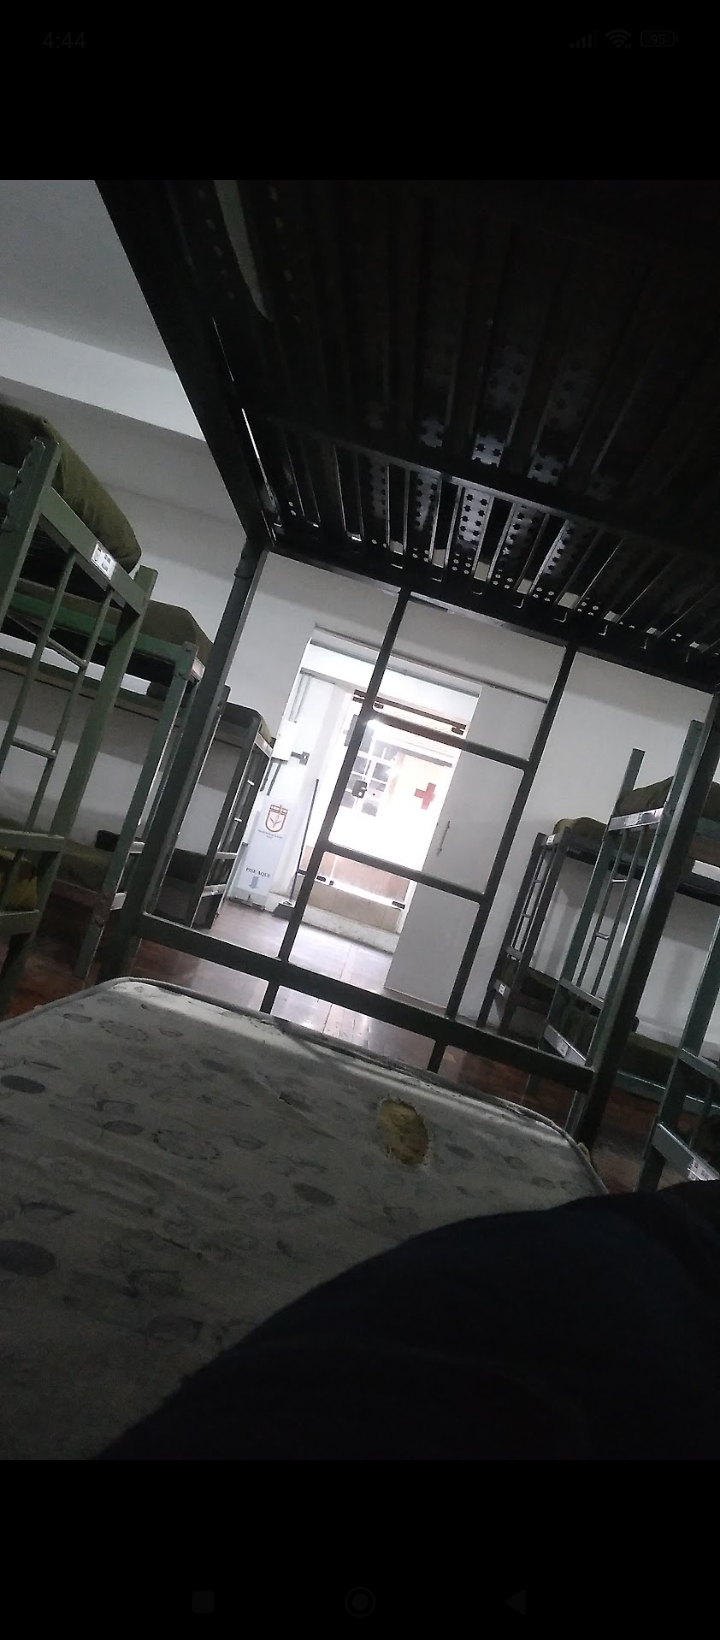
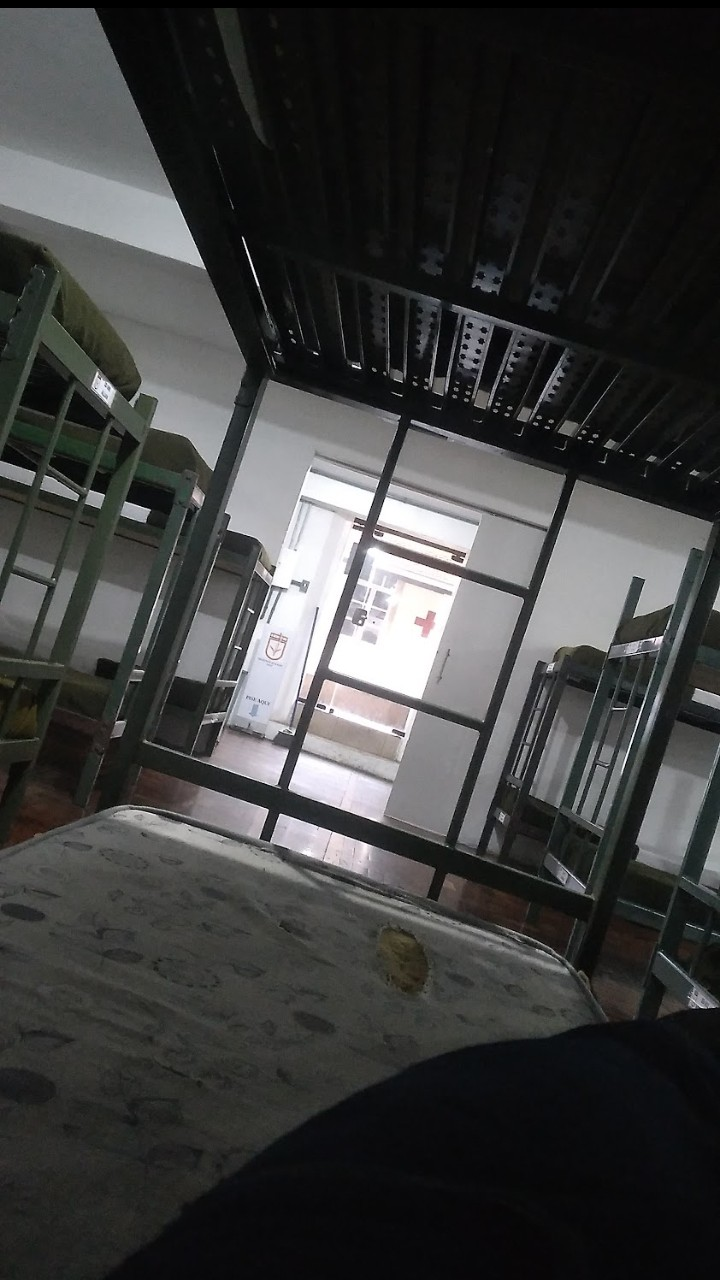
update

diff --git a/script/ep/5.html b/script/ep/5.html
@@ -1,0 +1,201 @@
+<!DOCTYPE html>
+<html lang="pt-BR">
+
+<head>
+    <meta http-equiv="Content-Type" content="text/html; charset=UTF-8" />
+    <title>A Lenda do Sd 609 Carvalho</title>
+    <meta name="viewport" content="width=device-width, initial-scale=1" />
+    <meta http-equiv="X-UA-Compatible" content="ie=edge">
+    <meta http-equiv="X-UA-Compatible" content="IE=7,8,edge" />
+    <meta http-equiv="Content-Type" content="text/html;charset=windows-1251">
+    <meta name="author" content="DarkWarrior666" />
+    <meta name="description" content="Um blog pessoal com uma série de gravações de voz feitas por um soldado expulso das Forças Armadas Brasileiras.">
+    
+    <link href="https://fonts.googleapis.com/css2?family=Changa+One:ital@0;1&display=swap" rel="stylesheet">
+    <link rel="icon" href="../assets/img/icon.jpg" />
+    <link rel="stylesheet" href="../css/alternate.css">
+    
+    <style type="text/css" media="all">
+        .main_menu {
+            top: 0;
+            bottom: 0;
+            left: 0;
+            right: 0;
+            position: fixed;
+            z-index: 1;
+            overflow-y: auto;
+            display: none;
+            background: #000000D6;
+            opacity: 0;
+            transform: translateX(-100%);
+            transition: opacity 0.5s ease, transform 0.5s ease;
+        }
+        
+        .main_menu.visible {
+            display: block;
+            opacity: 1;
+            transform: translateX(0);
+        }
+        
+        .main_menu button {
+            background: none;
+            padding-left: 20px;
+            color: #fff;
+            border: none;
+            padding-top: 30px;
+            font-size: 16px;
+            font-weight: 800;
+        }
+        
+        .main_menu button.x_menu {
+            color: #FF0000F2;
+            text-align: right;
+            font-size: 25px;
+            float: right;
+            padding: 30px 25px 0 0;
+        }
+        
+/* a {
+    color: #D9D9D9;
+    margin: 0px 20px 0px 0px;
+    padding-bottom: 10px;
+    font-size: 15px;
+    word-break: break-all;
+    line-height: 20px;
+    text-decoration: none;
+    position: relative;
+}
+ul{
+    color:#D9D9D9;
+    font-size: 14px;
+}
+
+a:hover{
+    color:#FF0000;
+}
+
+p a{
+    color:#FFF;
+    margin:0;
+    padding:0;
+    font-size: 14px;
+    font-weight: 800;
+    line-height: 20px;
+    text-decoration: underline;
+    list-style: underline;
+    text-decoration-color:#FF0000;
+}
+p a:hover{
+    color:#FF0000;
+} */
+
+section.pre {
+    background: #fff;
+    background-image: url("../../assets/img/locker609.jpg");
+    background-attachment: fixed;
+    background-repeat: no-repeat;
+    background-size: cover;
+    background-position: center;
+    padding-top: 50%;
+    margin: 10px 20px 10px 20px;
+}
+main {
+    padding-top: 25%;
+    background-image: url('../../assets/img/beds.jpg') !important;
+    background-repeat: no-repeat;
+    background-attachment: fixed;
+    background-size: cover;
+    background-position: center;
+}
+    </style>
+</head>
+
+<body>
+    <header>
+        <h1 onclick="location.href='../home.html'">LO<strike>V</strike>SER STORY</h1>
+        <button class="menu" onclick="menu()">☰</button>
+    </header>
+    <main>
+        
+<!-- Esse é o menu ========-->
+        <div class="main_menu" id="main_menu">
+            <button class="x_menu" onclick="menu()">X</button>
+            <button onclick="location.href='../../index.html'">Fitas</button>
+<br>
+<button onclick="location.href='https://www.big-loser.site/Caso/004'">Mídia de Arquivos</button>
+        </div>
+<!-- Fim do Menu ============-->
+        <section class="fancy">
+<h2>História verdadeira de um recruta do Exército Brasileiro</h2>
+<p>Esses são podcasts, histórias, relatos e experiências pessoais vividas por um soldado voluntário dentro das Forças Armadas do Brasil.</p>
+<p>Novos episódios atualizados frequentemente.</p>
+        </section>
+        
+        <section class="pre">
+            <div>
+<h2 style="transform:scaleY(1.8);">INTERNATO</h2>
+<button class="category_btn" onclick="location.href='../category.html'">INGRESSO E INCORPORAÇÃO</button> 
+<p style="font-size: 12px; padding-top: 0;margin-top: 0;">Qui, 24/Abr 2025</p>
+<p>O internato dos soldados aconteceu dia 1º de Abril de 2024 e iniciou a <i>SEMANA ZERO</i>.</p>
+<div class="podcast">
+    <div class="audio-player">
+        <audio id="audio" src="https://www.big-loser.site/A/Audio/FITA-7,-LADO-B.opus"></audio>
+        <button id="toggleBtn">▶</button>
+        <p>Ep 5: Internato</p>
+    </div>
+    <div class="progress-container">
+        <div class="progress-filled" id="progressFilled"></div>
+        <input type="range" id="progressBar" value="0" step="1" min="0" max="100">
+    </div>
+</div>
+<p>O internato começou dia 1º de Março e acabou em uma sexta-feira, 12, Abril de 2024.</p>
+
+<p style="font-weight: 800;">SOURCE</p>
+<ul>
+
+<li><br>
+<a href="https://web.archive.org/web/20250301024655/https://www.big-loser.site/M/Fev/internato.txt">https://web.archive.org/web/20250301024655/https://www.big-loser.site/M/Fev/internato.txt</a></li>
+<li><br>
+<a href="https://web.archive.org/web/20240715034331/https://3asyice.github.io/military/">https://web.archive.org/web/20240715034331/https://3asyice.github.io/military/</a></li>
+<li><br><a href="https://web.archive.org/web/20240809042446/https://3asyice.github.io/military/">https://web.archive.org/web/20240809042446/https://3asyice.github.io/military/</a></li>
+<li><br><a href="https://www.cbm.sc.gov.br/index.php/noticias/blog-noticias-institucionais/pelo-estado-semana-zero-adapta-alunos-soldados-a-rotina-militar#:~:text=A%20Semana%20Zero%20%C3%A9%20o%20per%C3%ADodo%20em,pelas%20quais%20os%20alunos%20passaram%20nesta%20semana.">https://www.cbm.sc.gov.br/index.php/noticias/blog-noticias-institucionais/pelo-estado-semana-zero-adapta-alunos-soldados-a-rotina-militar#:~:text=A%20Semana%20Zero%20%C3%A9%20o%20per%C3%ADodo%20em,pelas%20quais%20os%20alunos%20passaram%20nesta%20semana.</a></li>
+<li><br><a href="https://web.archive.org/web/20250425084106/https://tgjuazeirodonorte.blogspot.com/2011/06/movimentos-basicos-de-ou.html?m=1">https://web.archive.org/web/20250425084106/https://tgjuazeirodonorte.blogspot.com/2011/06/movimentos-basicos-de-ou.html?m=1</a></li>
+
+</ul>
+<p style="font-weight: 800;">ATRIBUIÇÕES</p>
+<p>Músicas de fundo: a primeira música é cantada pelo cantor <a href="https://youtu.be/6jRh2PRa1tU">Harry Nilson</a> - Gotta Get Up. A segunda música tocada é da cantora <a href="https://youtu.be/SQ9FvpF1vRo">Cecilia Krull</a> - I Don't Care At All e a terceira e última música é da banda <a href="https://youtu.be/GynSZVTUuEo">Twenty One Pilots</a>.</p>
+
+<div class="next_previous">
+    <button class="btn_1" onclick="location.href='../ep/4.html'">&Leftarrow; Episódio Anterior</button> <button class="btn_2" onclick="location.href='../ep/6.html'">Próximo Episódio &Rightarrow;</button>
+</div>
+</div>
+        </section>
+    </main>
+    <footer>
+      <h1 onclick="location.href='../home.html'">LO<strike>V</strike>SER STORY</h1>  
+    </footer>
+    
+    <script type="text/javascript" charset="utf-8">
+        var x = document.getElementById('main_menu');
+        var y = false;
+        
+        function menu() {
+            y = !y;
+            if (y) {
+                x.style.display = 'block';
+                setTimeout(() => {
+                    x.classList.add('visible');
+                }, 10);
+            } else {
+                x.classList.remove('visible');
+                setTimeout(() => {
+                    x.style.display = 'none';
+                }, 500);
+            }
+        }
+    </script>
+    
+    <script async src="../js/script0.js"></script>
+</body>
+
+</html>

diff --git a/script/category.html b/script/category.html
@@ -170,6 +170,10 @@ p a:hover{
 <ul>
   <a href="./home.html">Ep 1: A Decisão Errada</a>
 </ul>
+  <h2 style="color:#fff; font-size: 14px;">TREINAMENTO E INTERNATO</h2>
+  <ul>
+    <a href="./ep/5.html">Ep 4: Internato</a>
+  </ul>
   <h2 style="color:#fff; font-size: 14px;">INCIDENTE TRAUMÁTICO</h2>
   <ul>
     <a href="./ep/2.html">Ep 2: A Mensagem</a>
